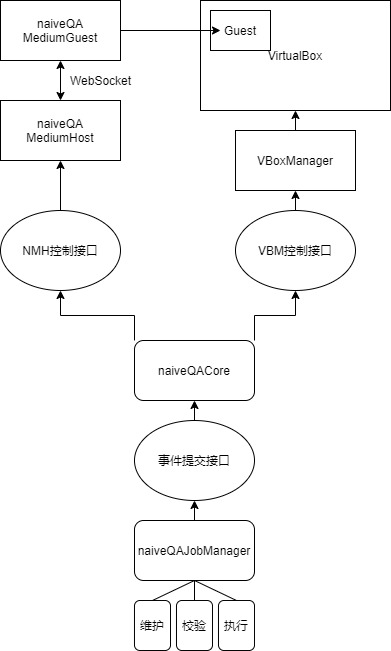
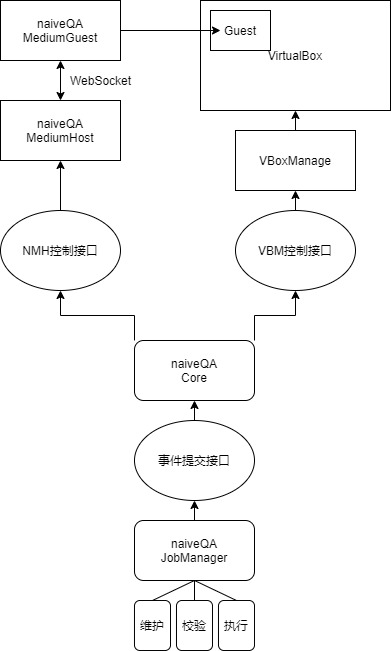
fix

Changed region(s): [[0.3376, 0.8295, 0.6445, 0.8909], [0.6752, 0.2151, 0.8593, 0.2765], [0.399, 0.553, 0.5831, 0.5837]]

diff --git a/readme.md b/readme.md
@@ -1,5 +1,5 @@
 # naïveQA
-一个基于VirtualBox的简易QA系统，特点是功能纯粹且易于部署，并对Windows友好
+一个基于VirtualBox的简易QA系统，特点是功能纯粹、易于部署，并对Windows友好
 
 **此项目处于规划阶段**
 
@@ -7,7 +7,7 @@
 * 实现大部分（我们认为）必需的openQA功能
 * 流式控制与函数化功能调用
 * 基于图像识别（OpenCV.js）的自动识别与点击
-* 跨平台的VirtualBox主宿双向通讯与文件传输
+* 跨平台的宿主机、目标机双向通讯与文件传输
 * 多抽象层和模块化的程序架构，可以快速切换至新版本VBoxManage或是新的虚拟机通讯媒介，甚至全新的控制文件管理器
 
 ## 架构
@@ -17,4 +17,4 @@ naiveQA核心，负责根据提交的事件协调控制NMH（naiveQA Medium Host
 ### naiveQA Job Manager
 naiveQA工作管理器，主要功能是维护、校验和执行对应的工作；此模块会将控制文件描述的操作步骤具象化为事件传递给naiveQA Core，并负责生成报告
 ### naiveQA Medium
-naiveQA的宿主机通讯程序，在实际运行时会分为Host和Guest两个角色，主要功能有：双向传递消息、双向传递文件、在宿主机运行命令/程序等
+naiveQA的宿主机、目标机通讯程序，在实际运行时会分为Host和Guest两个角色，主要功能有：双向传递消息、双向传递文件、在目标机运行命令/程序等
